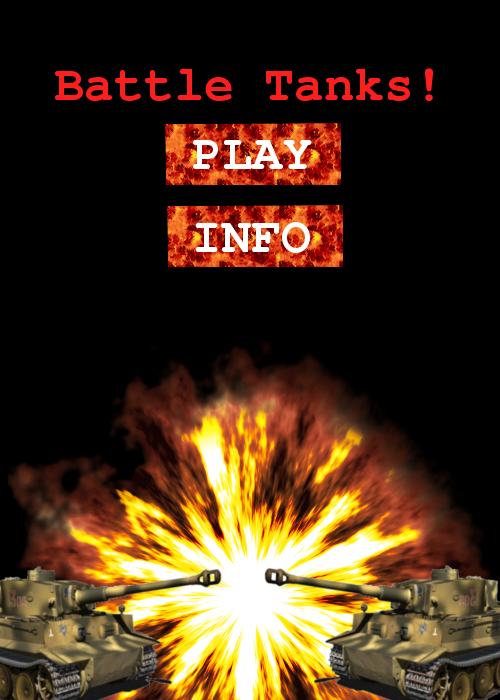
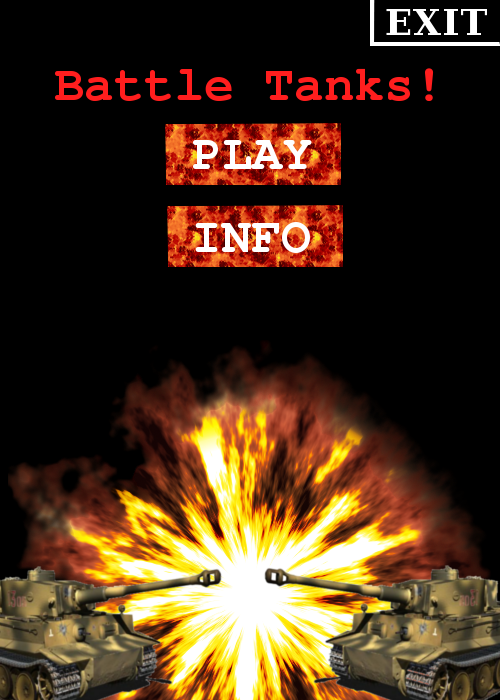
Fixed minor glitches w/ ammo respawn

Changed region(s): [[0.75, 0.0, 1.0, 0.09], [0.72, 0.0, 0.75, 0.06]]

diff --git a/PyGame.py b/PyGame.py
@@ -31,7 +31,7 @@ WAITING_FOR_PLAYER = 4
 PLAYING = 5
 PLAYER_1_DEAD = 6
 PLAYER_2_DEAD = 7
-
+EXIT_GAME = 8
 class GameSpace:
 	def __init__(self):
 		# init game
@@ -41,7 +41,7 @@ class GameSpace:
 						"right": pygame.K_RIGHT,
 						"left": pygame.K_LEFT,
 						"click": pygame.MOUSEBUTTONDOWN}
-		# Dict of key to its curernt state
+		# Dict of key to its current state
 		self.inputState = {"up": False,
 						"down": False,
 						"right": False,
@@ -49,18 +49,23 @@ class GameSpace:
 						"click": False}
 		
 		pygame.init()   
-		# Each game object has a unique ID, Player and Enemy start at 0 and 1, respectively
+
+		# font to be used for any text displayed on screen
 		self.font = pygame.font.SysFont("monospace",15)
+
 		self.bulletID = 1
 		self.size = self.width,self.height = 500,700
 		self.screen = pygame.display.set_mode(self.size)
 		self.map = Map(self)
-		#7
+	
+		# start state of server
 		self.state = WAITING_2
 
+		# init screens
 		self.info_screen = Info_screen(self)
 		self.title_screen = Title_screen(self)
 		self.win_screen = Win_screen(self)
+
 		# initialize game objects
 		self.game_objects = []
 		self.game_obstacles=[]
@@ -70,20 +75,24 @@ class GameSpace:
 		self.turret2 = Turret("PLAYER_2",self)
 		self.player1 = Tank(self.turret1, "PLAYER_1",(50,150),self)
 		self.player2 = Tank(self.turret2, "PLAYER_2", (400,500),self)
-		self.walls = Walls(self)
-		#self.gameObjects.append(self.walls)
+
 		self.players.append(self.player1)
 		self.players.append(self.player2)
+		# make all bushes on screen
 		self.create_obstacles()
 
-		self.waiting_text_state = 1
+		# game counters
 		self.waiting_counter = 0.0
 		self.ammo_increase_counter = 0.0
+	
+		# Text to be displayed on screen
+		self.waiting_text_state = 1
 		self.waiting_text_1 = self.font.render("Waiting for other player.",1,(255,255,255))
 		self.waiting_text_2 = self.font.render("Waiting for other player..",1,(255,255,255))
 		self.waiting_text_3 = self.font.render("Waiting for other player...",1,(255,255,255))
 		self.p1_win_text = self.font.render("PLAYER 1 WINS!",1,(255,255,255))
 		self.p2_win_text = self.font.render("PLAYER 2 WINS!",1,(255,255,255))
+
 	# given a key, lookup the event for it	
 	def lookupBinding(self,keyEntered):
 		for binding,keyBound in self.bindings.items():
@@ -93,7 +102,7 @@ class GameSpace:
 
 
 	def main(self):
-	
+		# Main switches based on current state of game
 		if self.state == TITLE_SCREEN or self.state == WAITING_1 or self.state == WAITING_2:
 			self.title_menu()
 			pygame.display.flip()
@@ -107,43 +116,26 @@ class GameSpace:
 		elif self.state == PLAYER_1_DEAD or self.state == PLAYER_2_DEAD:
 			self.win_menu()
 			pygame.display.flip()
-
-	def win_menu(self):
+		else:
+			pygame.quit()
 	
-		if self.win_screen.current_state == False:
-			self.screen.fill((0,0,0))
-			self.win_screen.current_state = True
-			self.screen.blit(self.win_screen.image, self.win_screen.rect)
-			if self.state == PLAYER_1_DEAD:
-				self.screen.blit(self.p2_win_text, (20,37))
-			else:
-				self.screen.blit(self.p1_win_text, (20,37))
-		for event in pygame.event.get():
-			if event.type == QUIT:
-				self.state = WAITING_2
-			if event.type == MOUSEBUTTONUP:
-				mx,my = pygame.mouse.get_pos()
-				self.win_screen.click((mx,my))
-	def info_menu(self):
-		if self.info_screen.current_state == False:
-			self.info_screen.current_state = True
-			self.screen.blit(self.info_screen.image,self.info_screen.rect)
-		for event in pygame.event.get():	
-			if event.type == QUIT:
-				sys.exit()
-			if event.type == MOUSEBUTTONUP:
-				mx,my = pygame.mouse.get_pos()
-				self.info_screen.click((mx,my))
 	def title_menu(self):
+		#Black background
 		self.screen.fill((0,0,0))
+		# Load image
 		self.screen.blit(self.title_screen.image,self.title_screen.rect)
+
+		# Switch behaviour based on state
 		if self.state == WAITING_1:
+
+			# Animate Waiting message (either "Waiting for other player." "Waiting for other player.." or "Waiting of other player...")
 			self.waiting_counter += 1./60
 			if self.waiting_counter >= 0.5:
 				self.waiting_counter = 0
 				self.waiting_text_state += 1
 				if self.waiting_text_state ==4:
 					self.waiting_text_state = 1
+			#Display appropriate message
 			if self.waiting_text_state == 1:
 				self.screen.blit(self.waiting_text_1,(150,270))
 			elif self.waiting_text_state == 2:
@@ -157,22 +149,61 @@ class GameSpace:
 			if event.type == QUIT:
 				sys.exit()
 			if event.type == MOUSEBUTTONUP:
+				# run pass in location to title_screen object - run click method
 				mx,my = pygame.mouse.get_pos()
 				self.title_screen.click((mx,my))
+	def info_menu(self):
+		#There is basically the same behaviour for every menu in the game
+		# Wait for click, on click, run click function in object.
+		# Everything related to state switching is inside those objects
+
+		# only need to blit this once
+		if self.info_screen.current_state == False:
+			self.info_screen.current_state = True
+			self.screen.blit(self.info_screen.image,self.info_screen.rect)
+		
+		for event in pygame.event.get():	
+			if event.type == QUIT:
+				sys.exit()
+			if event.type == MOUSEBUTTONUP:
+				mx,my = pygame.mouse.get_pos()
+				self.info_screen.click((mx,my))
+
+	def win_menu(self):
+	
+		if self.win_screen.current_state == False:
+			self.screen.fill((0,0,0))
+			self.win_screen.current_state = True
+			self.screen.blit(self.win_screen.image, self.win_screen.rect)
+			# Display one of two win messages
+			if self.state == PLAYER_1_DEAD:
+				self.screen.blit(self.p2_win_text, (20,37))
+			else:
+				self.screen.blit(self.p1_win_text, (20,37))
+		for event in pygame.event.get():
+			if event.type == QUIT:
+				sys.exit()
+			if event.type == MOUSEBUTTONUP:
+				mx,my = pygame.mouse.get_pos()
+				self.win_screen.click((mx,my))
+
+
 	def active_game(self):
-		#5 user input reading from queue
+		# -Mason, right now I default all action to run through P1. When the server is implemented, We'll need a way to differentiate btwn them and send the command to the appropriate player object
+
+		# Each player gets +1 ammo every 10 seconds
 		self.ammo_increase_counter += 1./60
 		if self.ammo_increase_counter >= 10.0:
 			self.ammo_increase_counter = 0.
 			self.players[0].increase_ammo(1)
 			self.players[1].increase_ammo(1)
 			self.show_ammo()
+
 		for event in pygame.event.get():
 			#exit if X is pressed
 			if event.type == QUIT:
 				sys.exit()
-			# if anyile "PyGame.py", line 9 key is pressed, look it up,
-			# if it is one of the mapped keys, make its pressed status true
+		
 			if event.type == KEYDOWN:
 				binding = self.lookupBinding(event.key)
 				if binding != "not found":
@@ -187,11 +218,14 @@ class GameSpace:
 				#set click status to True
 				self.inputState["click"] = True
 
-				
+			# on click , fire		
 			if event.type == MOUSEBUTTONUP:	
+			
 				self.players[0].click()
 				self.show_ammo()
 		#6 tick updating
+
+		# Handle tank mvt
 		for event, status in self.inputState.items():
 			# loop through dict, if the status of that button is True (pressed)
 			if status:
@@ -201,25 +235,27 @@ class GameSpace:
 					self.players[0].move(event)
 				elif event == "left" or event == "right":
 					self.players[0].rotate(event)
+
+		# Redraw all objects on screen
 		self.screen.fill((0,0,0))
 		# redraw map
 		self.screen.blit(self.map.image, self.map.rect)
 		#redraw bushes
 		for bush in self.game_obstacles:
 			self.screen.blit(bush.image, bush.rect)
-
+		# tick player, and redraw
 		for player in self.players:
 			player.tick()
 			self.screen.blit(player.image, player.rect)
 			self.screen.blit(player.turret.image, player.turret.rect)
+		#Tick bullets, and redraw
 		for bullet in self.bullets:
 			bullet.tick()
 			self.screen.blit(bullet.image,bullet.rect)
+		# Draw ammo and health
 		self.draw_health_bars()	
 		self.show_ammo()
-		# Draw bounding boxes
-		#pygame.draw.polygon(self.screen,(0,0,0),[self.players[0].rect.topleft,
-		#	self.players[0].rect.topright,self.players[0].rect.bottomright,self.players[0].rect.bottomleft], 1)
+
 		pygame.display.flip()
 
 
@@ -246,7 +282,7 @@ class GameSpace:
 	
 
 	def create_obstacles(self):
-		
+		#Randomly make 8 bushes, make them such that they can't box in a player in the corner
 		for i in range(0,8):
 			rand_x = random.randint(120,380)
 			rand_y = random.randint(150,480)
@@ -262,7 +298,8 @@ class GameSpace:
 
 	def create_bullet(self, center, angle):
 		# calculate initial point of bullet
-		dy =  math.sin(angle) * 26
+		
+		dy =  math.sin(angle) * 26 #26 is length of barrel
 		dx = math.cos(angle) * 26
 		new_center = (center[0]+ dx,center[1]-dy)
 		bullet = Bullet(new_center, angle, self.bulletID, self)
@@ -271,6 +308,7 @@ class GameSpace:
 		self.bulletID += 1	
 
 	def reset(self):
+		# Reset all game objects in preparation for new game
 		del self.game_objects[:]
 		del self.game_obstacles[:]
 		del self.bullets[:]
@@ -280,7 +318,6 @@ class GameSpace:
 		self.turret2 = Turret("PLAYER_2",self)
 		self.player1 = Tank(self.turret1, "PLAYER_1",(50,150),self)
 		self.player2 = Tank(self.turret2, "PLAYER_2", (400,500),self)
-		self.walls = Walls(self)
 		#self.gameObjects.append(self.walls)
 		self.players.append(self.player1)
 		self.players.append(self.player2)

diff --git a/GameObjects.py b/GameObjects.py
@@ -25,21 +25,6 @@ PLAYER_1_DEAD = 6
 PLAYER_2_DEAD = 7
 
 
-class Walls(pygame.sprite.Sprite):
-	def __init__(self,gs=None):
-		self.NAME = "WALLS"
-		self.walls = pygame.sprite.Group()
-		ss = spritesheet.spritesheet(os.getcwd() + "/tiles/walls.png")
-		pygame.sprite.Sprite.__init__(self)
-		#self.image = ss.image_at((0,0,455,500))
-		self.wall1 = ss.image_at((0,0,455,14))
-		self.image = ss.image_at((117,35,73,40))
-		self.image.set_colorkey((0,0,0))
-		self.rect = self.image.get_rect()
-		self.mask = pygame.mask.from_surface(self.image) # pixel mask for collision detection
-	def tick(self):
-		pass
-
 class Turret(pygame.sprite.Sprite):
 	def __init__(self,owner,gs=None):
 		self.gs = gs
